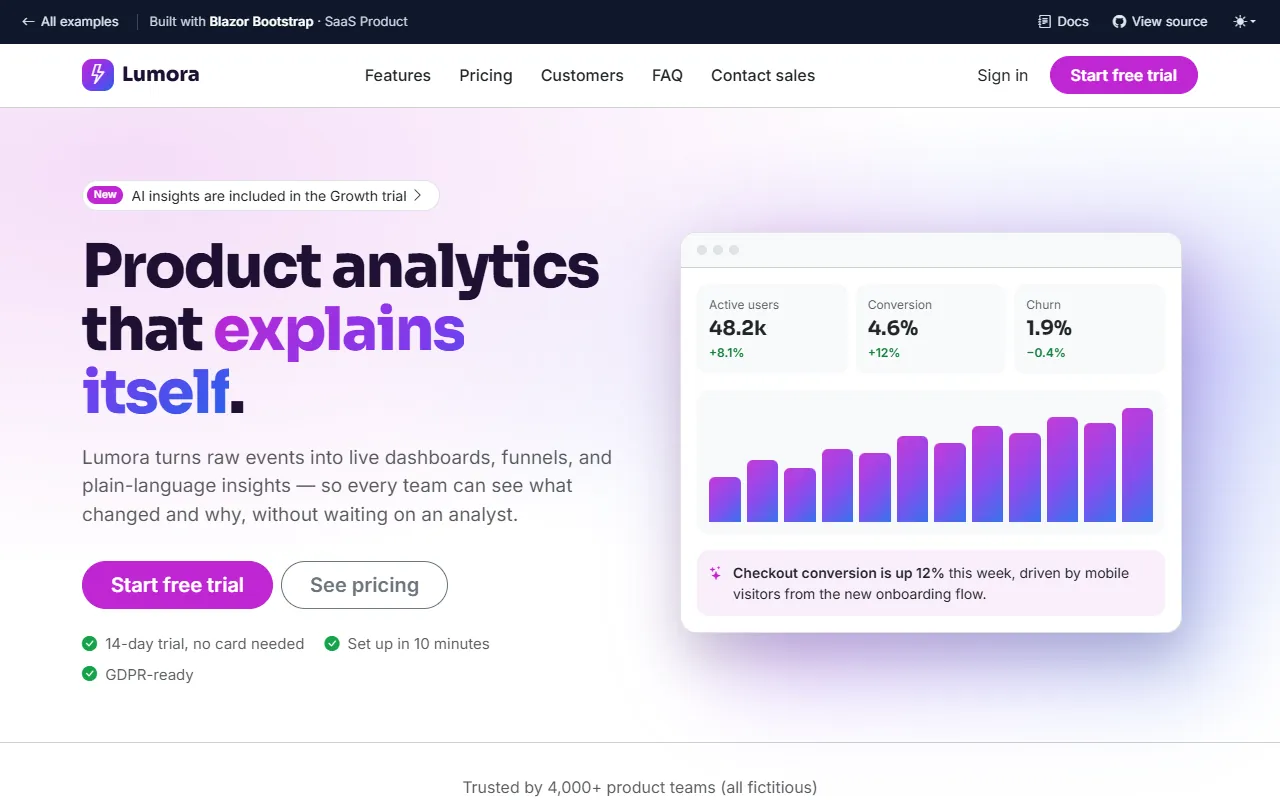
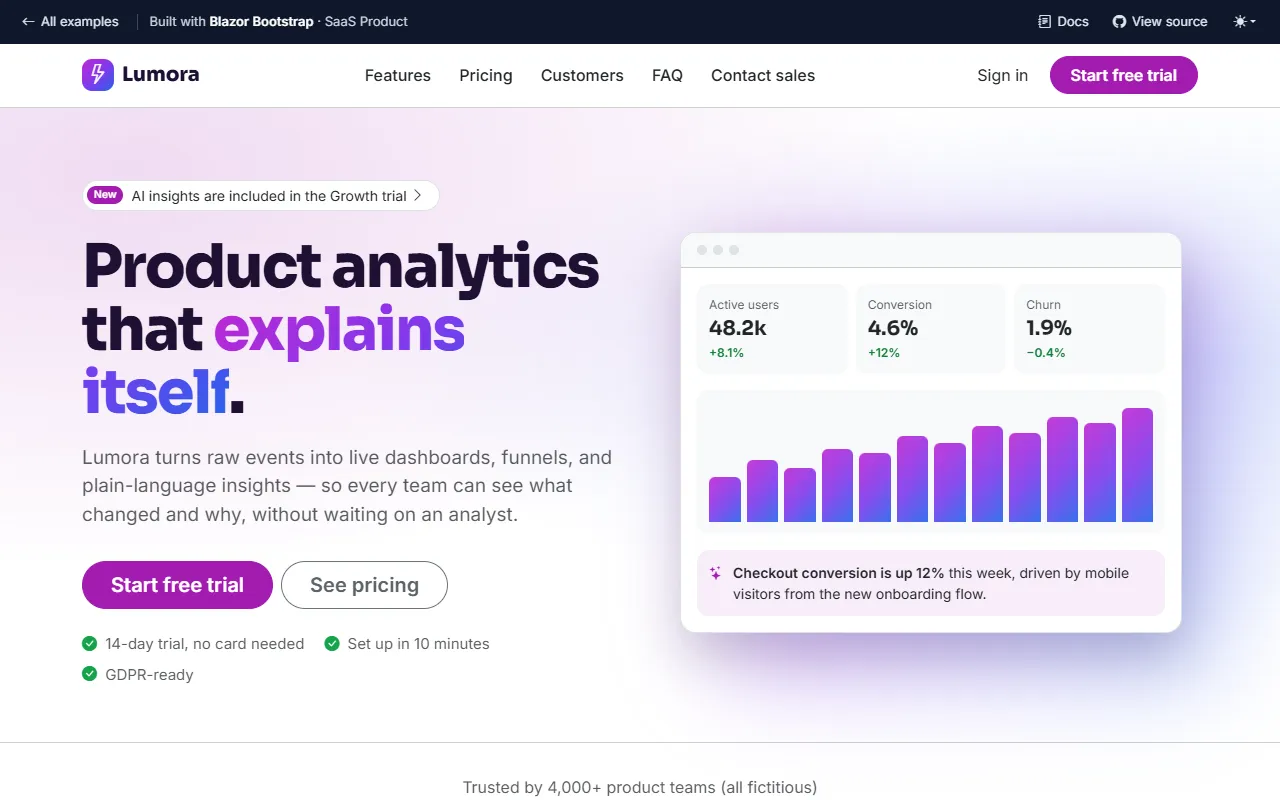
fix(demo): Meet WCAG contrast and reflow on the enterprise Showcase sites (T-25)
- Sidebar active links: seven site frames set the active color itself; the
  package resolves it from its -rgb value at :root, so the white override
  never applied and links showed purple at about 2:1.
- Shared Showcase bridge, scoped to the nine kept sites (Online Learning and
  Travel unchanged): outline secondary, danger, success, and warning button
  text at 4.5:1 or more in light and dark mode; dark-mode Callout links and
  text-bg-primary fills use the site colors; Grid pagination shows the
  current page in the site color with its contrast text and wraps at
  320 CSS px.
- E-commerce and Project Board panels may shrink below their tables, so the
  tables scroll in their own wrappers at 320 CSS px.
- SaaS light brand color #a21caf (hover #86198f) so links and eyebrow labels
  reach 4.5:1 on the tinted surfaces; chart colors, docs, and gallery images
  follow.

Changed region(s): [[0.0625, 0.6875, 0.2188, 0.7812], [0.8125, 0.0625, 0.9375, 0.125], [0.0625, 0.2188, 0.0938, 0.2812]]

diff --git a/BlazorBootstrap.Demo.RCL/wwwroot/css/blazorbootstrap.demo.rcl.css b/BlazorBootstrap.Demo.RCL/wwwroot/css/blazorbootstrap.demo.rcl.css
@@ -691,6 +691,60 @@ pre[class*=language-] {
         --bs-btn-disabled-color: #adb5bd;
     }
 
+    /* WCAG 1.4.3 and 1.4.10 for the nine enterprise sites (Online Learning and Travel are left as they are). Bootstrap's
+       outline danger, success, warning, and secondary text is just under 4.5:1 on the tinted site surfaces, white text
+       on the light dark-mode site colors is about 2:1, and the Callout link keeps its light-mode blue in dark mode. */
+    .sc-site:not(.sc-learning):not(.sc-travel) .btn-outline-secondary {
+        --bs-btn-color: #5c636a;
+    }
+
+    .sc-site:not(.sc-learning):not(.sc-travel) .btn-outline-danger {
+        --bs-btn-color: #b02a37;
+    }
+
+    .sc-site:not(.sc-learning):not(.sc-travel) .btn-outline-success {
+        --bs-btn-color: #146c43;
+    }
+
+    .sc-site:not(.sc-learning):not(.sc-travel) .btn-outline-warning {
+        --bs-btn-color: #856404;
+        --bs-btn-border-color: #ffc107;
+    }
+
+    [data-bs-theme=dark] .sc-site:not(.sc-learning):not(.sc-travel) .btn-outline-secondary {
+        --bs-btn-color: #adb5bd;
+    }
+
+    [data-bs-theme=dark] .sc-site:not(.sc-learning):not(.sc-travel) .btn-outline-danger {
+        --bs-btn-color: #ea868f;
+    }
+
+    [data-bs-theme=dark] .sc-site:not(.sc-learning):not(.sc-travel) .btn-outline-success {
+        --bs-btn-color: #75b798;
+    }
+
+    [data-bs-theme=dark] .sc-site:not(.sc-learning):not(.sc-travel) .btn-outline-warning {
+        --bs-btn-color: #ffc107;
+    }
+
+    [data-bs-theme=dark] .sc-site:not(.sc-learning):not(.sc-travel) {
+        --bb-callout-link: var(--sc-primary-rgb);
+    }
+
+    [data-bs-theme=dark] .sc-site:not(.sc-learning):not(.sc-travel) .text-bg-primary {
+        color: var(--sc-primary-contrast, #fff) !important;
+    }
+
+    /* Grid pagination: the current page uses the site color with its contrast text, and the page buttons wrap instead of
+       pushing the page sideways at 320 CSS px. */
+    .sc-site:not(.sc-learning):not(.sc-travel) .pagination {
+        --bs-pagination-active-bg: var(--sc-primary);
+        --bs-pagination-active-border-color: var(--sc-primary);
+        --bs-pagination-active-color: var(--sc-primary-contrast, #fff);
+        flex-wrap: wrap;
+        row-gap: .25rem;
+    }
+
     .sc-site .form-control:focus,
     .sc-site .form-select:focus,
     .sc-site .form-check-input:focus {

diff --git a/BlazorBootstrap.Demo.RCL/Components/Pages/Showcase/ProjectBoard/PbFrame.razor.css b/BlazorBootstrap.Demo.RCL/Components/Pages/Showcase/ProjectBoard/PbFrame.razor.css
@@ -108,6 +108,8 @@
 }
 
 .sc-board ::deep .tb-panel {
+    /* A grid item may shrink below its table's width, so the table scrolls in its own wrapper at 320 CSS px. */
+    min-width: 0;
     padding: 1.25rem;
     border: 1px solid var(--tb-border);
     border-radius: .875rem;
@@ -187,6 +189,8 @@
     --bb-sidebar-content-border-color: rgba(255, 255, 255, .08);
     --bb-sidebar-nav-item-text-color: #e0e4fa;
     --bb-sidebar-nav-item-text-active-color-rgb: 255, 255, 255;
+    /* The package resolves the active color from its own -rgb value at :root, so set the color itself too. */
+    --bb-sidebar-nav-item-text-active-color: #fff;
     --bb-sidebar-nav-item-text-hover-color: rgba(255, 255, 255, .95);
     --bb-sidebar-nav-item-background-hover-color: rgba(255, 255, 255, .08);
     --bb-sidebar-nav-item-group-background-color: rgba(255, 255, 255, .06);

diff --git a/BlazorBootstrap.Demo.RCL/Components/Pages/Showcase/AiAssistant/AiFrame.razor.css b/BlazorBootstrap.Demo.RCL/Components/Pages/Showcase/AiAssistant/AiFrame.razor.css
@@ -225,6 +225,8 @@
     --bb-sidebar-content-border-color: rgba(255, 255, 255, .08);
     --bb-sidebar-nav-item-text-color: #e5defa;
     --bb-sidebar-nav-item-text-active-color-rgb: 255, 255, 255;
+    /* The package resolves the active color from its own -rgb value at :root, so set the color itself too. */
+    --bb-sidebar-nav-item-text-active-color: #fff;
     --bb-sidebar-nav-item-text-hover-color: rgba(255, 255, 255, .95);
     --bb-sidebar-nav-item-background-hover-color: rgba(255, 255, 255, .08);
     --bb-sidebar-nav-item-group-background-color: rgba(255, 255, 255, .06);

diff --git a/BlazorBootstrap.Demo.RCL/Components/Pages/Showcase/Fintech/FintechFrame.razor.css b/BlazorBootstrap.Demo.RCL/Components/Pages/Showcase/Fintech/FintechFrame.razor.css
@@ -370,6 +370,8 @@
     --bb-sidebar-content-border-color: rgba(255, 255, 255, .08);
     --bb-sidebar-nav-item-text-color: #d1e7df;
     --bb-sidebar-nav-item-text-active-color-rgb: 255, 255, 255;
+    /* The package resolves the active color from its own -rgb value at :root, so set the color itself too. */
+    --bb-sidebar-nav-item-text-active-color: #fff;
     --bb-sidebar-nav-item-text-hover-color: rgba(255, 255, 255, .95);
     --bb-sidebar-nav-item-background-hover-color: rgba(255, 255, 255, .08);
     --bb-sidebar-nav-item-group-background-color: rgba(255, 255, 255, .06);

diff --git a/BlazorBootstrap.Demo.RCL/Components/Pages/Showcase/Healthcare/HcFrame.razor.css b/BlazorBootstrap.Demo.RCL/Components/Pages/Showcase/Healthcare/HcFrame.razor.css
@@ -187,6 +187,8 @@
     --bb-sidebar-content-border-color: rgba(255, 255, 255, .08);
     --bb-sidebar-nav-item-text-color: #e0f5f9;
     --bb-sidebar-nav-item-text-active-color-rgb: 255, 255, 255;
+    /* The package resolves the active color from its own -rgb value at :root, so set the color itself too. */
+    --bb-sidebar-nav-item-text-active-color: #fff;
     --bb-sidebar-nav-item-text-hover-color: rgba(255, 255, 255, .95);
     --bb-sidebar-nav-item-background-hover-color: rgba(255, 255, 255, .08);
     --bb-sidebar-nav-item-group-background-color: rgba(255, 255, 255, .06);

diff --git a/BlazorBootstrap.Demo.RCL/Components/Pages/Showcase/HelpDesk/HelpDeskFrame.razor.css b/BlazorBootstrap.Demo.RCL/Components/Pages/Showcase/HelpDesk/HelpDeskFrame.razor.css
@@ -324,6 +324,8 @@
     --bb-sidebar-content-border-color: rgba(255, 255, 255, .08);
     --bb-sidebar-nav-item-text-color: #d4d4e0;
     --bb-sidebar-nav-item-text-active-color-rgb: 255, 255, 255;
+    /* The package resolves the active color from its own -rgb value at :root, so set the color itself too. */
+    --bb-sidebar-nav-item-text-active-color: #fff;
     --bb-sidebar-nav-item-text-hover-color: rgba(255, 255, 255, .95);
     --bb-sidebar-nav-item-background-hover-color: rgba(255, 255, 255, .08);
     --bb-sidebar-nav-item-group-background-color: rgba(255, 255, 255, .06);

diff --git a/BlazorBootstrap.Demo.RCL/Components/Pages/Showcase/HrPortal/HrFrame.razor.css b/BlazorBootstrap.Demo.RCL/Components/Pages/Showcase/HrPortal/HrFrame.razor.css
@@ -187,6 +187,8 @@
     --bb-sidebar-content-border-color: rgba(255, 255, 255, .08);
     --bb-sidebar-nav-item-text-color: #f0e6fc;
     --bb-sidebar-nav-item-text-active-color-rgb: 255, 255, 255;
+    /* The package resolves the active color from its own -rgb value at :root, so set the color itself too. */
+    --bb-sidebar-nav-item-text-active-color: #fff;
     --bb-sidebar-nav-item-text-hover-color: rgba(255, 255, 255, .95);
     --bb-sidebar-nav-item-background-hover-color: rgba(255, 255, 255, .08);
     --bb-sidebar-nav-item-group-background-color: rgba(255, 255, 255, .06);

diff --git a/BlazorBootstrap.Demo.RCL/Components/Pages/Showcase/Monitoring/MonitoringFrame.razor.css b/BlazorBootstrap.Demo.RCL/Components/Pages/Showcase/Monitoring/MonitoringFrame.razor.css
@@ -300,6 +300,8 @@
     --bb-sidebar-content-border-color: rgba(255, 255, 255, .08);
     --bb-sidebar-nav-item-text-color: #d6eadf;
     --bb-sidebar-nav-item-text-active-color-rgb: 255, 255, 255;
+    /* The package resolves the active color from its own -rgb value at :root, so set the color itself too. */
+    --bb-sidebar-nav-item-text-active-color: #fff;
     --bb-sidebar-nav-item-text-hover-color: rgba(255, 255, 255, .95);
     --bb-sidebar-nav-item-background-hover-color: rgba(255, 255, 255, .08);
     --bb-sidebar-nav-item-group-background-color: rgba(255, 255, 255, .06);

diff --git a/BlazorBootstrap.Demo.RCL/Components/Pages/Showcase/Saas/SaasShell.razor.css b/BlazorBootstrap.Demo.RCL/Components/Pages/Showcase/Saas/SaasShell.razor.css
@@ -1,8 +1,8 @@
 .sc-saas {
     /* Lumora's brand, shared with the public site. */
-    --sc-primary: #c026d3;
-    --sc-primary-rgb: 192, 38, 211;
-    --sc-primary-hover: #a21caf;
+    --sc-primary: #a21caf;
+    --sc-primary-rgb: 162, 28, 175;
+    --sc-primary-hover: #86198f;
     --sc-primary-contrast: #fff;
     --sc-font-body: "Inter", system-ui, -apple-system, "Segoe UI", Roboto, sans-serif;
     --sc-font-heading: "Sora", "Inter", system-ui, sans-serif;

diff --git a/BlazorBootstrap.Demo.RCL/Components/Pages/Showcase/Saas/SaasLayout.razor.css b/BlazorBootstrap.Demo.RCL/Components/Pages/Showcase/Saas/SaasLayout.razor.css
@@ -1,7 +1,7 @@
 .sc-lumora {
-    --sc-primary: #c026d3;
-    --sc-primary-rgb: 192, 38, 211;
-    --sc-primary-hover: #a21caf;
+    --sc-primary: #a21caf;
+    --sc-primary-rgb: 162, 28, 175;
+    --sc-primary-hover: #86198f;
     --sc-primary-contrast: #fff;
     --sc-font-body: "Inter", system-ui, -apple-system, "Segoe UI", Roboto, sans-serif;
     --sc-font-heading: "Sora", "Inter", system-ui, sans-serif;

diff --git a/BlazorBootstrap.Demo.RCL/Components/Pages/Showcase/Ecommerce/EcommerceAdminLayout.razor.css b/BlazorBootstrap.Demo.RCL/Components/Pages/Showcase/Ecommerce/EcommerceAdminLayout.razor.css
@@ -350,6 +350,8 @@
 }
 
 .sc-ecommerce ::deep .ea-panel {
+    /* A grid item may shrink below its table's width, so the table scrolls in its own wrapper at 320 CSS px. */
+    min-width: 0;
     height: 100%;
     padding: 1.25rem;
     border: 1px solid var(--ec-border);

diff --git a/BlazorBootstrap.Demo.RCL/Components/Pages/Showcase/Saas/SaasChartTheme.cs b/BlazorBootstrap.Demo.RCL/Components/Pages/Showcase/Saas/SaasChartTheme.cs
@@ -36,12 +36,12 @@ public static class SaasChartTheme
     }
 
     /// <summary>Returns the brand color of the color mode, optionally with an alpha value.</summary>
-    public static string Primary(bool isDark, double alpha = 1) => isDark ? Rgba(232, 121, 249, alpha) : Rgba(192, 38, 211, alpha);
+    public static string Primary(bool isDark, double alpha = 1) => isDark ? Rgba(232, 121, 249, alpha) : Rgba(162, 28, 175, alpha);
 
     /// <summary>Returns the series colors of the color mode: Lumora magenta first, then the supporting palette.</summary>
     public static IReadOnlyList<string> Series(bool isDark) => isDark
         ? new[] { "#e879f9", "#60a5fa", "#34d399", "#fbbf24", "#a78bfa" }
-        : new[] { "#c026d3", "#2563eb", "#059669", "#b45309", "#7c3aed" };
+        : new[] { "#a21caf", "#2563eb", "#059669", "#b45309", "#7c3aed" };
 
     /// <summary>Returns the neutral color used for a target or comparison series.</summary>
     public static string Muted(bool isDark) => isDark ? "rgba(148, 163, 184, 0.9)" : "rgba(100, 116, 139, 0.9)";
